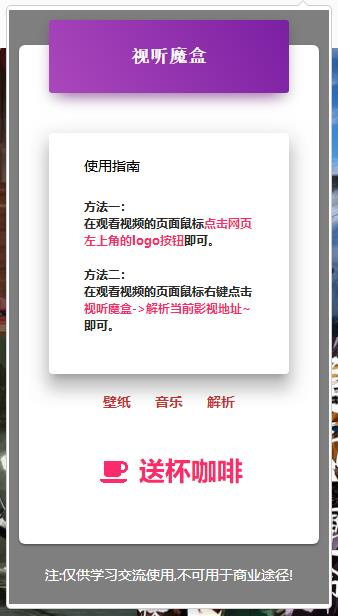
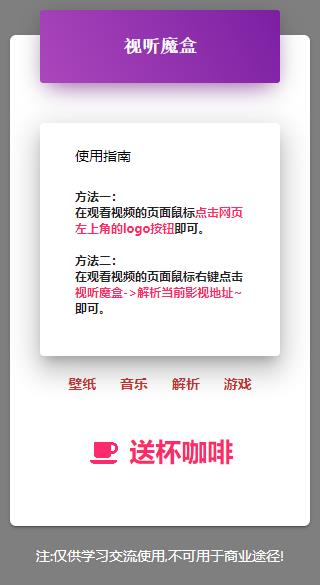
小游戏

diff --git a/stmh-chrome/game.html b/stmh-chrome/game.html
@@ -1,0 +1,71 @@
+<!DOCTYPE html>
+<html>
+<meta charset="utf-8">
+<head>
+    <style>
+        body,
+        html {
+            overflow: hidden;
+            margin: 0;
+            padding: 0;
+            width: 100%;
+            height: 100%;
+        }
+
+        a {
+            text-decoration: none;
+            color: #666;
+        }
+
+        a:hover {
+            text-decoration: underline;
+            color: #C60;
+        }
+
+        #loading {
+            position: absolute;
+            z-index: -1;
+            top: 50%;
+            left: 50%;
+            margin-left: -25px;
+            margin-top: -25px;
+            font-size: 14px;
+            color: #aaa;
+            text-align: center
+        }
+
+        .setting {
+            padding: 10px;
+            overflow: hidden;
+            background: #eee;
+        }
+
+        .fl {
+            float: left;
+        }
+
+        .fr {
+            float: right;
+        }
+
+        .setting .tiaozhuan {
+            color: #666;
+        }
+
+        .setting .help {
+            color: #666;
+        }
+    </style>
+</head>
+
+<body>
+<iframe src="http://xvvs.cn/" width="100%" height="100%" frameborder="0"></iframe>
+<div id="loading">进度君玩命加载中...</div>
+<div class="setting">
+    <div class="help">
+        <div class="fr"><a href="">© 2019 ZCJUN.COM</a></div>
+    </div>
+</div>
+</body>
+
+</html>

diff --git a/stmh-chrome/popup.html b/stmh-chrome/popup.html
@@ -30,8 +30,12 @@
       </div>
       <div class="panel">
         <div class="panel-heading">
-          <h3 class="ruKou"><a href="./pic.html" target="_blank">壁纸</a> <a href="./mc.html" target="_blank">音乐</a> <a
-              href="./mv.html" target="_blank">解析</a> </h3>
+          <h3 class="ruKou">
+              <a href="./pic.html" target="_blank">壁纸</a>
+              <a href="./mc.html" target="_blank">音乐</a>
+              <a href="./mv.html" target="_blank">解析</a>
+              <a href="./game.html" target="_blank">游戏</a>
+          </h3>
         </div>
         <div class="coffee"><span class="downfile">
[1 lines of base64/hex data omitted]

diff --git a/stmh-chrome/css/popup.css b/stmh-chrome/css/popup.css
@@ -315,7 +315,8 @@ body {
     color: #C33;
 }
 
-.panel-body .hotlist {}
+.panel-body .hotlist {
+}
 
 .panel-body .hotlist li {
     font-size: 14px;
@@ -471,15 +472,22 @@ body {
         padding: 20px 0 10px;
     }
 }
-.ruKou{
+
+.ruKou {
     text-align: center;
 }
-.ruKou a{
+
+.ruKou a {
     color: #C33;
     font-weight: 700;
 }
+
 .ruKou a:nth-child(2) {
-    margin:0 20px;
+    margin: 0 10px 0 20px;
+}
+
+.ruKou a:nth-child(3) {
+    margin: 0 20px 0 10px;
 }
 
 .donate {
@@ -535,9 +543,11 @@ body {
     margin-left: 2em;
 }
 
-.donate table tr {}
+.donate table tr {
+}
 
-.donate table td {}
+.donate table td {
+}
 
 .donate table .input {
     padding-top: 4px;

diff --git a/stmh-chrome/js/background.js b/stmh-chrome/js/background.js
@@ -21,4 +21,9 @@ chrome.contextMenus.create({
     chrome.tabs.create({url: './pic.html'});
   }
 })
-
+chrome.contextMenus.create({
+	title: "小游戏，开心娱乐~",
+	onclick: function(){
+		chrome.tabs.create({url: './game.html'});
+	}
+})

diff --git a/README.md b/README.md
@@ -1,12 +1,12 @@
 ##集音乐、视频、壁纸于一体的三合一浏览器插件。
 
-本扩展工具封装视频二次解析与MkOnlinePlayer以及同作者作品壁纸网站。
+本扩展工具封装视频解析在线游戏与MkOnlinePlayer以及同作者作品壁纸网站。
 
 :fire: 注意：
 
 :fire: 360浏览器的把“360浏览器扩展-视听魔盒.crx”拖到浏览器安装就行了，
 
-:fire: 其他谷歌内核的浏览器需进入扩展中心，勾选开发者模式加载已解压的扩展，选择文件夹“stmh-chrome“。**
+:fire: 其他谷歌内核的浏览器需进入扩展中心，勾选开发者模式加载已解压的扩展，选择文件夹“stmh-chrome“。
 
 ###功能详解：
 
@@ -14,6 +14,8 @@
 *在观看视频时会网页左上角会出现“m”logo，点击该logo可以减免视频广告。
 *音乐目录可以在线听歌，并支持同步网易云歌单
 *壁纸栏目可以无门槛下载高清4k壁纸。
+*在线游戏几十个鼠标键盘操控的web游戏在线即玩，随时关闭打开！
+*想玩就玩！想看就看！想听就听！它叫视听魔盒！！！
 *完全免费。
 
 
@@ -23,3 +25,13 @@
 ![效果图3](./效果图3.jpg)
 
 ![效果图1](./效果图1.jpg)
+
+## 更新日志
+
+v0.0.2 
+
+*新增在线小游戏栏目 
+
+*修复低版本谷歌内核浏览器不兼容问题
+
+*解析线路支持blibli网站视频，但不出现"m"logo，点击右键进行解析，目前仅支持av开头的视频
